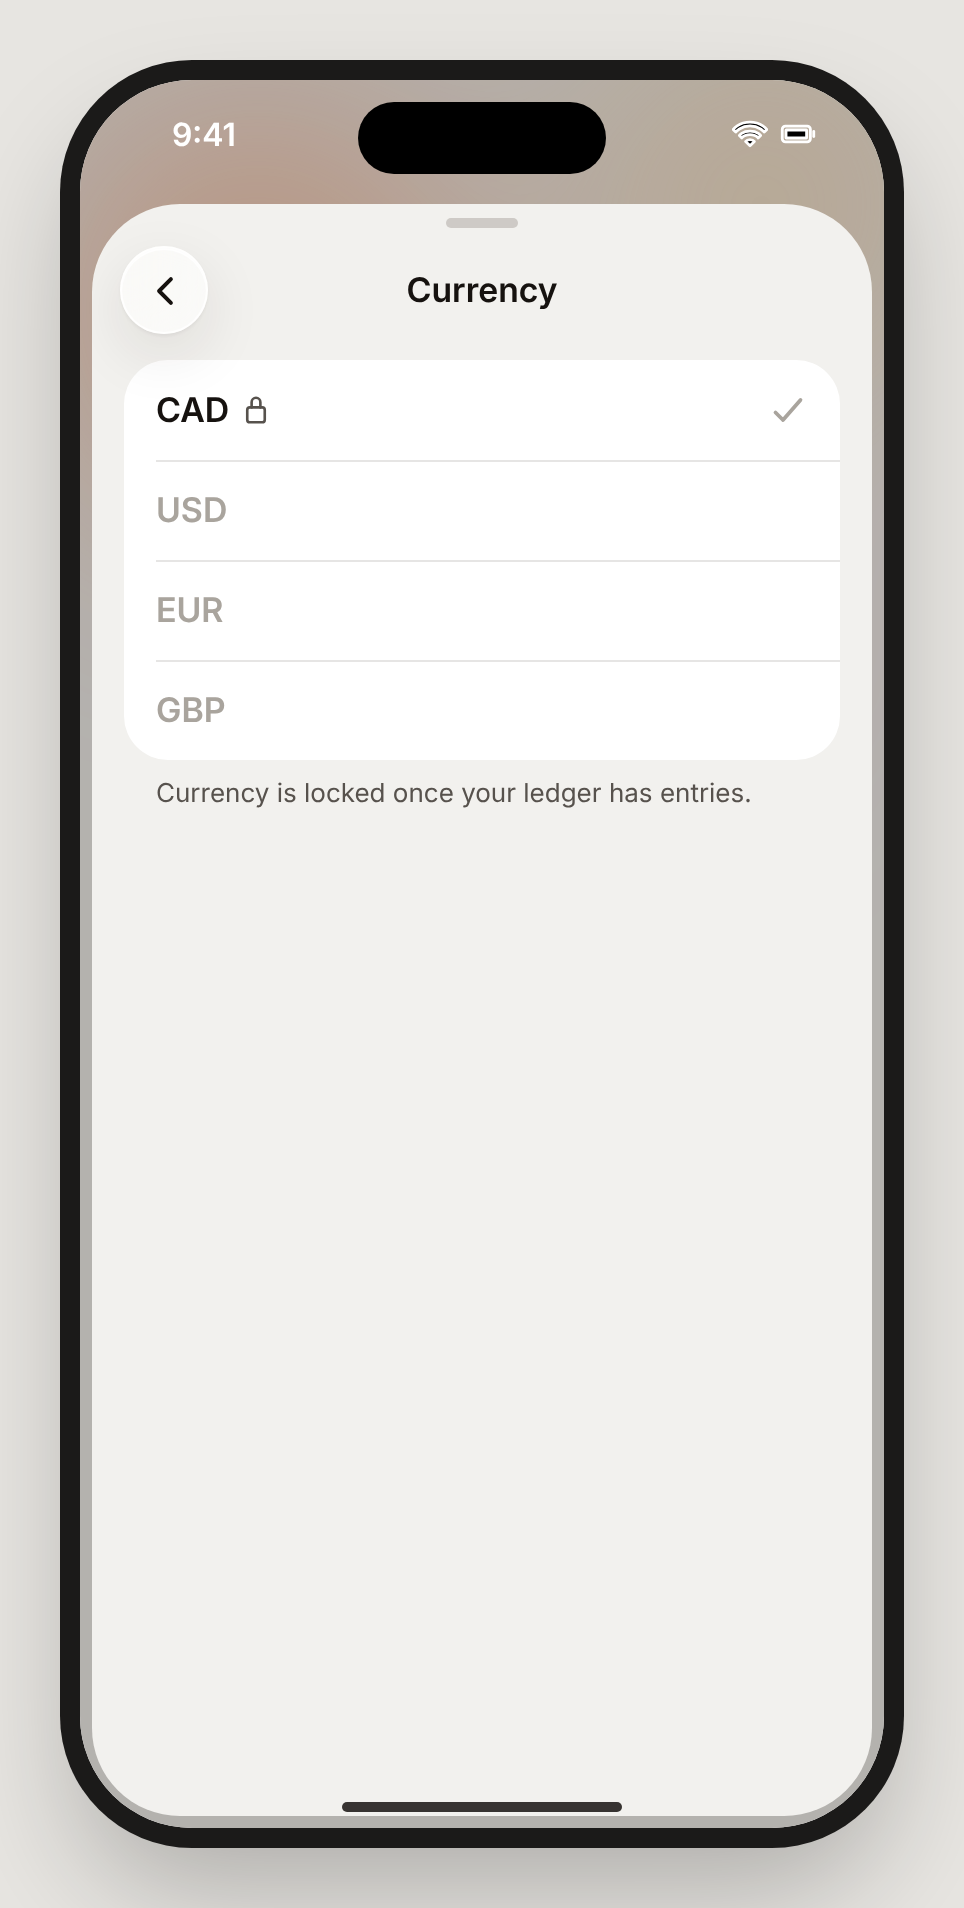
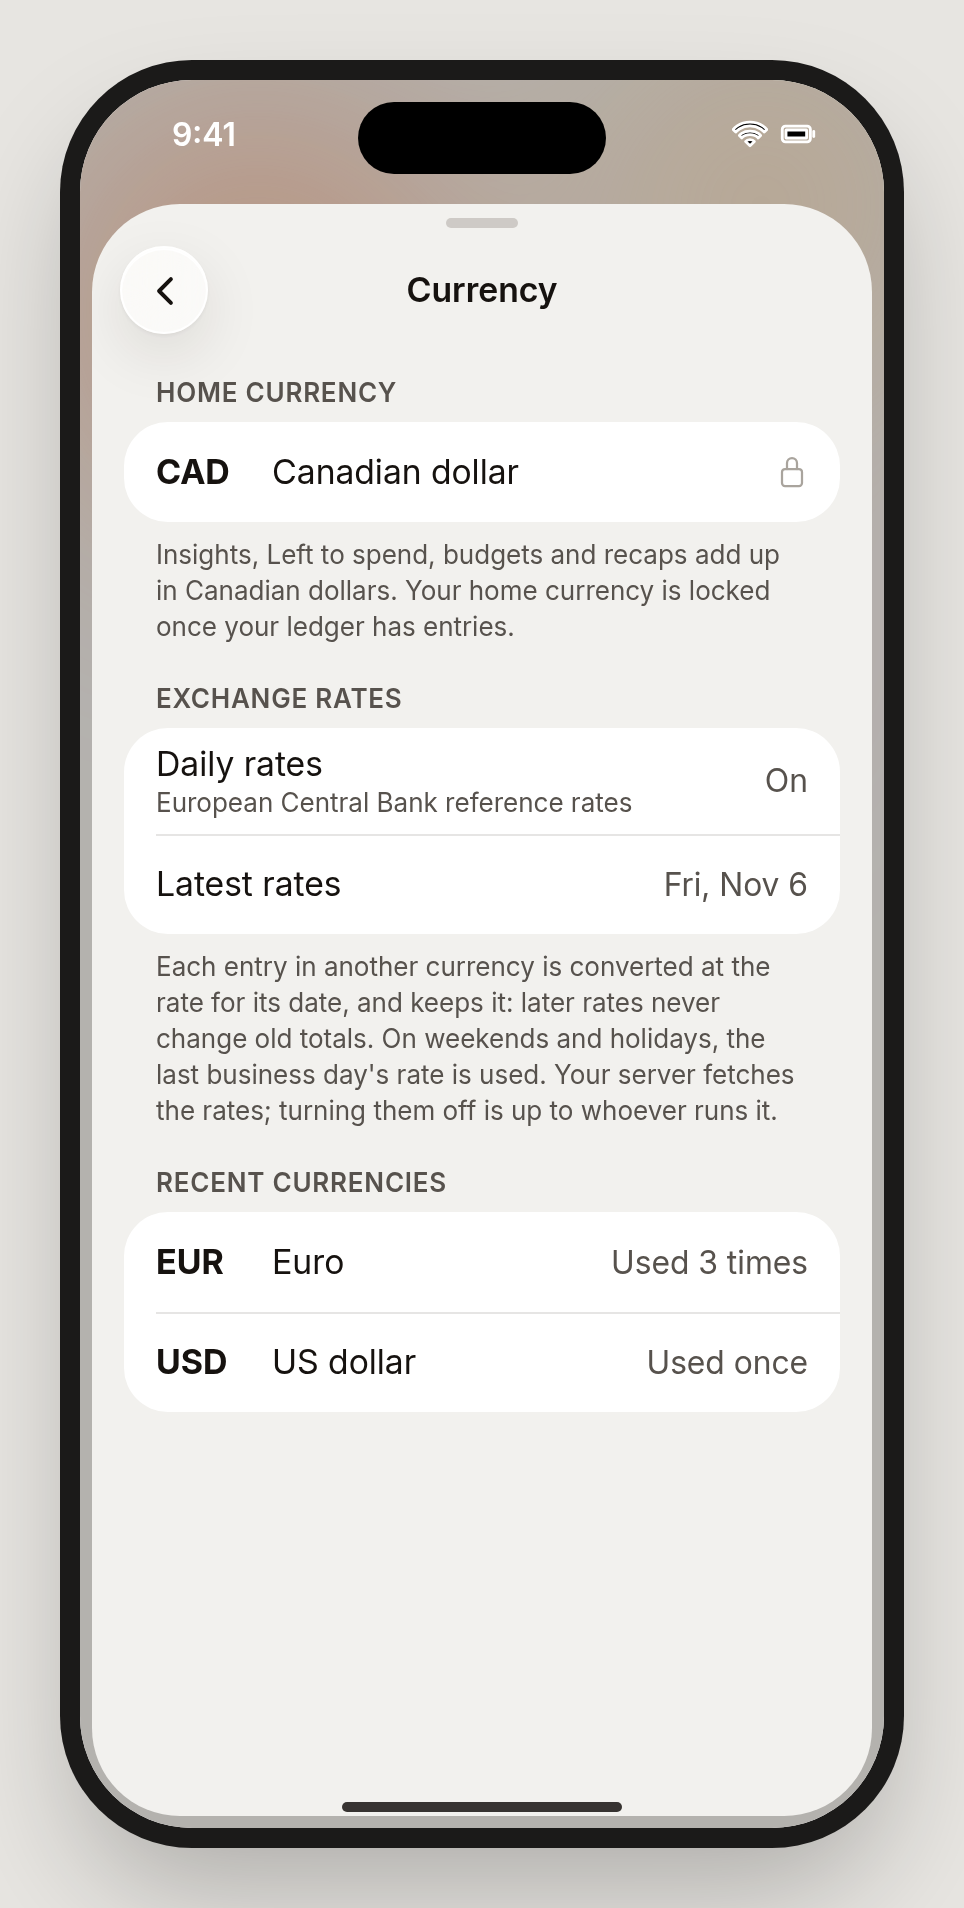
docs(design): redraw the Settings › Currency cards to the screen the apps build
The iPhone and web Currency cards drew the old locked list of four
currencies. The owner decided on 2026-11-27 to redraw them: they now draw
one locked home-currency row, then Exchange rates and Recent currencies,
as the approved currency-and-rates cards do, light and dark.

Re-rendered both baselines, updated the contract hashes and the verdicts,
and added a phone-width web capture of Settings › Currency to the
currencies spec.

diff --git a/docs/design/penny-ios/web/currency.html b/docs/design/penny-ios/web/currency.html
@@ -48,15 +48,26 @@
         </div>
         <div class="pane">
           <div class="panel sec">
-            <h3>Currency</h3>
-            <div style="font-size:13px;font-weight:600;margin:4px 0 8px;display:flex;align-items:center;gap:6px">Ledger currency<i data-i="lock-closed" style="width:13px;height:13px;color:var(--label-2)"></i></div>
+            <h3>Home currency</h3>
             <div class="fs">
-              <div class="srow"><span class="radio on"></span><span class="code">CAD</span></div>
-              <div class="srow opt"><span class="radio"></span><span class="code">USD</span></div>
-              <div class="srow opt"><span class="radio"></span><span class="code">EUR</span></div>
-              <div class="srow opt"><span class="radio"></span><span class="code">GBP</span></div>
+              <div class="srow"><span class="code">CAD</span><span class="t">Canadian dollar</span><i data-i="lock-closed" style="width:14px;height:14px;color:var(--label-3)"></i></div>
             </div>
-            <div class="lockn"><i data-i="lock-closed"></i><span>Your ledger already has entries in CAD, so the currency can't change. One currency per account keeps your totals consistent. Shared households keep their own currency.</span></div>
+            <div class="lockn"><i data-i="lock-closed"></i><span>Insights, Left to spend, budgets and recaps add up in Canadian dollars. Your home currency is locked once your ledger has entries. Each entry can be in any currency.</span></div>
+          </div>
+          <div class="panel sec">
+            <h3>Exchange rates</h3>
+            <div class="fs">
+              <div class="srow"><span class="t">Daily rates<span>European Central Bank reference rates</span></span><span class="v">On</span></div>
+              <div class="srow"><span class="t">Latest rates</span><span class="v">Fri, Nov 6</span></div>
+            </div>
+            <div class="lockn"><i data-i="cash"></i><span>Each entry in another currency is converted at the rate for its date, and keeps it: later rates never change old totals. On weekends and holidays, the last business day's rate is used. Your server fetches the rates; turning them off is up to whoever runs it.</span></div>
+          </div>
+          <div class="panel sec">
+            <h3>Recent currencies</h3>
+            <div class="fs">
+              <div class="srow"><span class="code">EUR</span><span class="t">Euro</span><span class="v">Used 3 times</span></div>
+              <div class="srow"><span class="code">USD</span><span class="t">US dollar</span><span class="v">Used once</span></div>
+            </div>
           </div>
         </div>
       </div>

diff --git a/docs/design/penny-ios/iphone/currency.html b/docs/design/penny-ios/iphone/currency.html
@@ -42,6 +42,9 @@
   .locked .sr .tx { color: var(--label-3); }
   .locked .sr.sel .tx { color: var(--label); }
   .locked .check { color: var(--label-3); }
+  .code { width: 46px; font-weight: 700; flex: none; }
+  .sr .tx small { display: block; font-size: 13px; color: var(--label-2); margin-top: 1px; }
+  .off { color: var(--label-2); }
 </style></head>
 <body class="canvas">
 <div class="iphone">
@@ -52,13 +55,22 @@
   <div class="sheet">
     <div class="grabber"></div>
     <div class="bar"><div class="side"><div class="glass gbtn"><i data-i="chevron-back"></i></div></div><h2>Currency</h2><div class="side r"></div></div>
-    <div class="glist locked" style="margin-top:10px">
-      <div class="sr noi sel"><div class="tx"><b>CAD <i data-i="lock-closed"></i></b></div><i data-i="checkmark" class="check"></i></div>
-      <div class="sr noi"><div class="tx"><b>USD</b></div></div>
-      <div class="sr noi"><div class="tx"><b>EUR</b></div></div>
-      <div class="sr noi"><div class="tx"><b>GBP</b></div></div>
+    <div class="gh"><span>Home currency</span></div>
+    <div class="glist locked">
+      <div class="sr noi sel"><span class="code">CAD</span><div class="tx">Canadian dollar</div><i data-i="lock-closed" style="width:16px;height:16px;color:var(--label-3)"></i></div>
     </div>
-    <div class="gf">Currency is locked once your ledger has entries.</div>
+    <div class="gf">Insights, Left to spend, budgets and recaps add up in Canadian dollars. Your home currency is locked once your ledger has entries.</div>
+    <div class="gh"><span>Exchange rates</span></div>
+    <div class="glist">
+      <div class="sr noi"><div class="tx">Daily rates<small>European Central Bank reference rates</small></div><span class="v">On</span></div>
+      <div class="sr noi"><div class="tx">Latest rates</div><span class="v">Fri, Nov 6</span></div>
+    </div>
+    <div class="gf">Each entry in another currency is converted at the rate for its date, and keeps it: later rates never change old totals. On weekends and holidays, the last business day's rate is used. Your server fetches the rates; turning them off is up to whoever runs it.</div>
+    <div class="gh"><span>Recent currencies</span></div>
+    <div class="glist">
+      <div class="sr noi"><span class="code">EUR</span><div class="tx">Euro</div><span class="v">Used 3 times</span></div>
+      <div class="sr noi"><span class="code">USD</span><div class="tx">US dollar</div><span class="v">Used once</span></div>
+    </div>
   </div>
   <div class="home-ind"></div>
 </div>

diff --git a/apps/web/e2e/currencies.spec.ts b/apps/web/e2e/currencies.spec.ts
@@ -296,6 +296,8 @@ for (const scheme of ["light", "dark"] as const) {
       await page.reload();
       await expect(page.getByText("European Central Bank reference rates")).toBeVisible();
       await capture(page, "web-currency-rates", scheme);
+      // web-currency draws the same screen (redrawn to the currency and rates card, 2026-11-27).
+      await capture(page, "web-currency", scheme);
 
       await page.goto("/transactions?month=2026-11");
       await results(page).getByRole("row").filter({ hasText: "Cooking class" }).getByRole("button", { name: /^Cooking class/ }).click();
@@ -309,6 +311,14 @@ for (const scheme of ["light", "dark"] as const) {
       await open(page, "/");
       await expect(page.getByText("provisional rate")).toBeVisible();
       await capture(page, "iphone-home-currencies.web", scheme);
+    });
+
+    test("settings currency (phone)", async ({ context, page }) => {
+      await page.setViewportSize({ width: 402, height: 874 });
+      await mockApi(context, { foreign: true });
+      await open(page, "/settings/currency");
+      await expect(page.getByText("European Central Bank reference rates")).toBeVisible();
+      await capture(page, "iphone-currency.web", scheme);
     });
   });
 }

diff --git a/.design-sync/NOTES.md b/.design-sync/NOTES.md
@@ -36,6 +36,7 @@
 - **Recap and year in review cards (MAZ-292, approved 2026-11-26):** 22 new cards (14 `iphone/`, 8 `web/`), listed in [visual acceptance](../docs/design/visual-acceptance.md#cards-monthly-recap-and-year-in-review-maz-292-2026-11-26). No kit change: they reuse `penny.css`, `web.css` and `web.js`; `web/home-recap.html`, `web/insights-recap.html` and `web/insights-year-review.html` are the approved Home and Insights cards with the banner or the year-in-review entry added (the last one at December 28, with December's flow set in its own script). Each card adds the icons it needs beyond `assets/icons.js` (sparkles, share, eye, eye-off, download, notifications) in its own script, and draws the share image, the Lock Screen and the share sheet itself. Push them at the next re-sync.
 - **Apple Pay Inbox drafts (MAZ-291):** 25 new cards (15 `iphone/`, 3 `ipad/`, 7 `web/`), waiting for the owner's review, listed in [visual acceptance](../docs/design/visual-acceptance.md#drafted-cards-apple-pay-purchases-in-the-inbox-and-siri-maz-291-2026-11-27). No kit change: they reuse `penny.css`, `ipad.css`, `web.css` and `web.js`, after the receipt inbox, add expense, MAZ-270 currency, Settings and recap notification cards. Each card adds the icons it needs beyond `assets/icons.js` (tray, link, notifications, mic, layers, swap-horizontal) in its own script, and draws the Lock Screen and the Siri snippets itself. Push them at the next re-sync.
 - **Several currencies drafts (MAZ-270):** 26 new cards (13 `iphone/`, 4 `ipad/`, 9 `web/`), approved by the owner on 2026-11-26 as drawn, listed in [visual acceptance](../docs/design/visual-acceptance.md#drafted-cards-entries-and-shared-trips-in-several-currencies-maz-270-2026-11-26). No kit change: they reuse `penny.css`, `ipad.css`, `web.css`, `web.js` and the existing icons, after `iphone/add-expense.html`, `iphone/home.html`, `iphone/activity.html`, `iphone/entry-detail.html`, `iphone/trip-detail.html`, `iphone/trip-form.html`, `iphone/shared-balances.html`, `iphone/currency.html` and their iPad and web counterparts. Each card adds the two Ionicons it needs beyond `assets/icons.js` (`swap-horizontal`, `refresh`) in its own script. Push them at the next re-sync.
+- **Settings › Currency redrawn (MAZ-151, owner decision 2026-11-27):** `iphone/currency.html` and `web/currency.html` drop the locked list of four currencies and draw the same screen as `iphone/currency-rates.html` and `web/currency-rates.html` (one locked home-currency row, Exchange rates, Recent currencies). No kit change. Push the two cards at the next re-sync.
 - **Move and remove, every category color and icon (MAZ-251, owner decision):** `iphone/account-form.html` replaces the locked "Remove account" row with a "Move them to" picker and a "Move and remove" button (disabled until an account is chosen) over the note "Visa is used by 31 entries and 3 schedules."; `iphone/category-form.html` shows all eight colors (two rows of four) and the 30 icons the apps offer, the card's original 18 first. Both add the Ionicons they need beyond `assets/icons.js` (`chevron-expand`; `car`, `fitness`, `school`, `paw`) in their own script, so the shared assets and the other baselines are unchanged. No kit change. Push the two cards at the next re-sync.
 - **No entry time (MAZ-273, owner decision):** `ipad/activity.html` and `web/activity.html` show only the date in the entry detail ("Food & drinks · Today", was "Today, 8:42 AM"), because entries store no time. No kit change. Push the two cards at the next re-sync.
 - **No category reorder on the web (MAZ-283, owner decision on MAZ-257):** `web/categories.html` drops "Drag to reorder" and the drag handles; its rows end in a chevron, because Penny keeps no category order. No kit change. Push the card at the next re-sync.

diff --git a/docs/design/visual-acceptance.md b/docs/design/visual-acceptance.md
@@ -368,7 +368,7 @@ The sample: Max's home currency is CAD, today is Monday, Nov 9, and the shared L
 | **A shared trip in three currencies.** The trip total and your share are in your home currency ($1,394.91, your share $354.30), with "EUR, USD and CAD · each at its date's rate" opening the rates. Expense rows lead with the original amount, the home amount under it | `iphone-trip-currencies`, `ipad-trip-currencies`, `web-trip-currencies` |
 | **Balances and settle-up in one currency.** Balances and suggested payments are in the trip's currency (EUR), chosen with **Settle in EUR**; each person's balance also shows in their own home currency at today's rate (Sam's in US$) | `iphone-trip-balances-currency`, `ipad-trip-currencies`, `web-trip-currencies` |
 | **The trip form's currency row** is no longer locked: the trip's currency is the default for its new expenses and the currency payments are suggested in | `iphone-trip-form-currency`, `web-trip-form-currency` |
-| **Settings › Currency.** The home currency (locked once the ledger has entries), **Exchange rates** (daily ECB rates, the latest date) and recent currencies; with fetching off, "Turned off on this server" and your last rates | `iphone-currency-rates`, `iphone-currency-rates-off`, `ipad-settings-currency`, `web-currency-rates`, `web-currency-rates-off` |
+| **Settings › Currency.** The home currency (locked once the ledger has entries), **Exchange rates** (daily ECB rates, the latest date) and recent currencies; with fetching off, "Turned off on this server" and your last rates | `iphone-currency-rates`, `iphone-currency-rates-off`, `ipad-settings-currency`, `web-currency-rates`, `web-currency-rates-off`; `iphone-currency` and `web-currency` draw the same screen (redrawn 2026-11-27) |
 
 Behavior the cards assume (from MAZ-151 and the owner's 2026-11-26 rules):
 
@@ -382,6 +382,7 @@ Owner decisions (2026-11-26):
 1. **Which amount leads.** As drawn: the home amount first in Recent and Activity, the original first on trip screens and in a trip entry's detail.
 2. **One trip currency.** It's the default for new expenses and also the settle-up currency, switchable on the settle screen (Settle in EUR).
 3. **Rates off.** A rate is required: Penny suggests the last one used, and Save stays disabled until there's one.
+4. **The old Settings › Currency cards (2026-11-27).** Redrawn, not retired: `iphone-currency` and `web-currency` no longer draw the locked list of CAD, USD, EUR and GBP. They draw the screen the apps build, as `iphone-currency-rates` and `web-currency-rates` do: one locked home-currency row, then Exchange rates and Recent currencies, light and dark. Nothing on the page moves beyond what Settings already does, so [motion](motion.md) has no new entry for it.
 
 ## Drafted cards: Apple Pay purchases in the Inbox, and Siri (MAZ-291, 2026-11-27)
 
